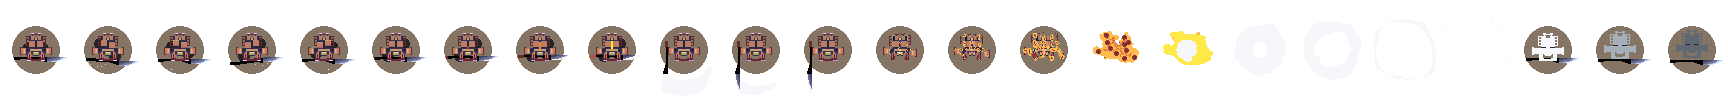
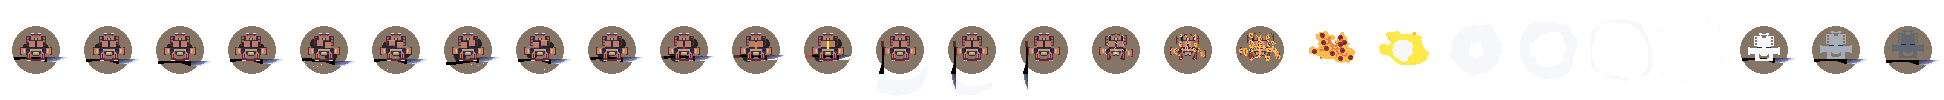
improve idle animation for swiper

Changed region(s): [[0.0, 0.27, 0.75, 0.81], [0.875, 0.27, 1.0, 0.75]]

diff --git a/todo.md b/todo.md
@@ -60,6 +60,8 @@
 * [Mon x] Design Max base and legs
 * [Mon x] Animate Max Hammer
 * [Sun x] Enemies should be knocked back
+* [Mon x] Implement GUI theme
+* [Mon x] Make main menu a little spiffier
 
 ASSET TODO
 
@@ -86,8 +88,6 @@ AUDIO EFFECT WORK
 * Add pilot button sound
 
 UI Work
-* Implement GUI theme
-* Make main menu a little spiffier
 * Make Textured bars animate and be better
 
 ACTIVE BUGS:
@@ -98,9 +98,10 @@ YOU FOUND A BUG.
 * So you need to check if the current state is still active whenever a delayed task comes about.
 
 * BUG: Hammer does not hit enemy multiple time
-* BUG: Swiper cooldown is too fast. It needs like a 0.25 or 0.5 cooldown
+* BUG: Swiper cooldown is too fast. It needs like a 0.25 or 0.5 cooldown.
 * BUG: Enemies will constantly follow FREEK if he boards MAX and not reacquire a target
 * BUG: Animation connections in the state tree will replay and error out
+* BUG: At least on macos, Godot4 has a weird audio popping sound
 
 EMILY NOTES:
 
